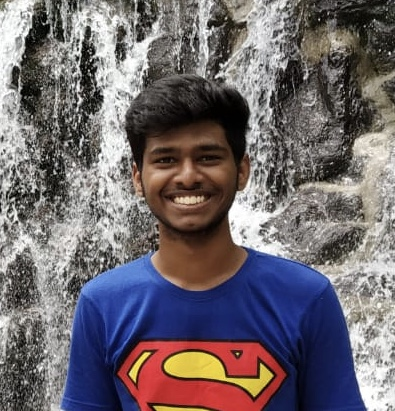
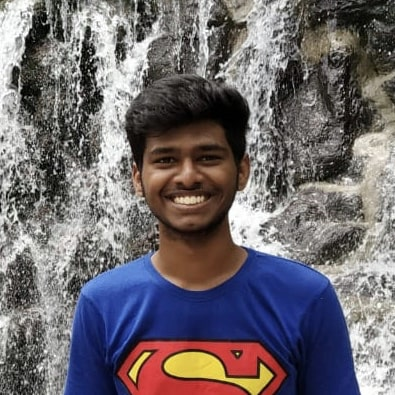
Optimise sponsor-team photos; Add messages.

diff --git a/Arjun-FrontEnd/sponsors/index.html b/Arjun-FrontEnd/sponsors/index.html
@@ -18,7 +18,7 @@
 			<p class="sponsor-txt">A huge shoutout to our sponsors without whom Interrupt 2k19 will not be possible!</p>
 
 			<a href="#" class="sponsor" style="animation-name: colorChange2;">
-				<img src="static/img/KST.png">
+				<img src="static/img/kst.jpg">
 				<p>KST InfoTech</p>
 			</a>
 
@@ -35,47 +35,102 @@
 		</div>
 
 		<div class="sponsors teams">
-			<h2>Our Team</h2>
-			<p class="sponsor-txt">And, of course, the team without which this whole event (and this amazing website!) would not be possible!</p>
+			<h2>Our Web Team</h2>
+			<p class="sponsor-txt">The team behind this amazing website! Enduring sleepless nights and OD-less days, this team survived it all to construct this website from scratch HTML, CSS and JavaScript! <span>Click on our photos to know more about us!</span></p>
+
+			<a href="http://arjunaravind.in" class="sponsor team" style="animation-name: colorChange1;">
+				<img src="static/img/arjun.jpg">
+				<p>Arjun Aravind</p>
+				<p class="post">Fourth-Year</p>
+			</a>
+
+			<a href="http://aravindbalakrishan.com" class="sponsor team" style="animation-name: colorChange2;">
+				<img src="static/img/aravind.jpg">
+				<p>Aravind B</p>
+				<p class="post">Fourth-Year</p>
+			</a>
+
+			<a href="#" class="sponsor team" style="animation-name: colorChange3;">
+				<img src="static/img/shravan.jpg">
+				<p>R Shravan Dheep</p>
+				<p class="post">Fourth-Year</p>
+			</a>
+
+			<a href="#" class="sponsor team" style="animation-name: colorChange4;">
+				<img src="static/img/yuvaraj.jpg">
+				<p>Yuvaraj J</p>
+				<p class="post">Third-Year</p>
+			</a>
+
+			<a href="#" class="sponsor team" style="animation-name: colorChange5;">
+				<img src="static/img/shriram.jpg">
+				<p>Shriram G</p>
+				<p class="post">Third-Year</p>
+			</a>
+
+			<a href="#" class="sponsor team" style="animation-name: colorChange6;">
+				<img src="static/img/sreevishal.jpg">
+				<p>Sree Vishal S</p>
+				<p class="post">Second-Year</p>
+			</a>
+
+			<a href="#" class="sponsor team" style="animation-name: colorChange7;">
+				<img src="static/img/humaid.jpg">
+				<p>Humaid Abdullah</p>
+				<p class="post">Second-Year</p>
+			</a>
+			
+			<a href="#" class="sponsor team" style="animation-name: colorChange8;">
+				<img src="static/img/arvind.jpg">
+				<p>Aravind R</p>
+				<p class="post">Second-Year</p>
+			</a>
+
+
+		</div>
+
+		<div class="sponsors teams">
+			<h2>Our Organising Team</h2>
+			<p class="sponsor-txt">And, of course, the team without which this whole event would not be possible! They've been absolutely ACE-ing the organising this time! <span>Click on our photos to know more about us!</span></p>
 
 			<a href="#" class="sponsor team" style="animation-name: colorChange1;">
-				<img src="static/img/Sandhya.jpg">
+				<img src="static/img/sandhya.jpg">
 				<p>Sandhya Rao P</p>
 				<p class="post">President, ACE</p>
 			</a>
 
 			<a href="#" class="sponsor team" style="animation-name: colorChange2;">
-				<img src="static/img/SA.jpg">
-				<p>K S Aditya Krrish</p>
+				<img src="static/img/sa.jpg">
+				<p>KS Aditya Krrish</p>
 				<p class="post">Vice President, ACE</p>
 			</a>
 
 			<a href="#" class="sponsor team" style="animation-name: colorChange3;">
-				<img src="static/img/Subiksha.jpg">
+				<img src="static/img/subiksha.jpg">
 				<p>Subhiksha Dev</p>
 				<p class="post">Vice President, ACE</p>
 			</a>
 
 			<a href="#" class="sponsor team" style="animation-name: colorChange4;">
-				<img src="static/img/Sarjhana.jpg">
+				<img src="static/img/sarjhana.jpg">
 				<p>Sarjhana RB</p>
 				<p class="post">Secretary, ACE</p>
 			</a>
 
 			<a href="#" class="sponsor team" style="animation-name: colorChange5;">
-				<img src="static/img/SaiHarshith.jpg">
+				<img src="static/img/saiharshith.jpg">
 				<p>Sai Harshith</p>
 				<p class="post">Joint Secretary, ACE</p>
 			</a>
 
 			<a href="#" class="sponsor team" style="animation-name: colorChange6;">
-				<img src="static/img/Pavithra.jpg">
+				<img src="static/img/pavithra.jpg">
 				<p>Pavithra M</p>
 				<p class="post">Treasurer, ACE</p>
 			</a>
 
 			<a href="#" class="sponsor team" style="animation-name: colorChange7;">
-				<img src="static/img/SooryaPrakash.jpg">
+				<img src="static/img/sooryaprakash.jpg">
 				<p>SooryaPrakash</p>
 				<p class="post">Joint Treasurer, ACE</p>
 			</a>

diff --git a/Arjun-FrontEnd/sponsors/static/css/index.css b/Arjun-FrontEnd/sponsors/static/css/index.css
@@ -51,9 +51,13 @@ h2 {
 	color: yellow;
 }
 
+.sponsor-txt span {
+	color: white;
+}
+
 .sponsor {
 	display: inline-block;
-	width: 15%;
+	width: 17%;
 
 	margin: 2% 0.75%;
 
